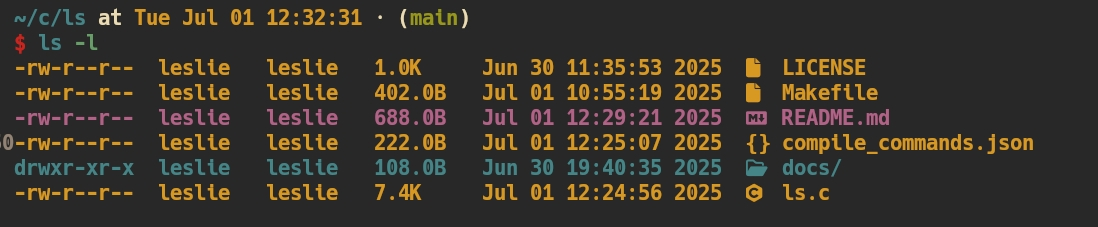
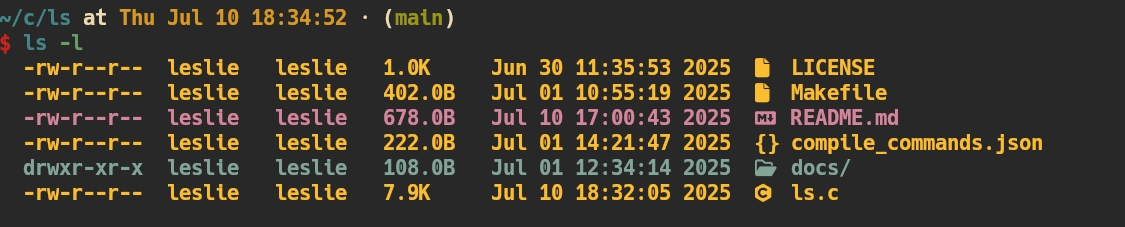
docs: update version badge and screenshots

diff --git a/README.md b/README.md
@@ -1,4 +1,4 @@
-# ls [![](https://img.shields.io/badge/tag-v0.0.3-green.svg)](https://img.shields.io/badge/tag-v0.0.3-green)
+# ls [![](https://img.shields.io/badge/tag-v0.0.4-green.svg)](https://img.shields.io/badge/tag-v0.0.4-green)
 
 
 An alternative to ls command, Pure C language implementation
